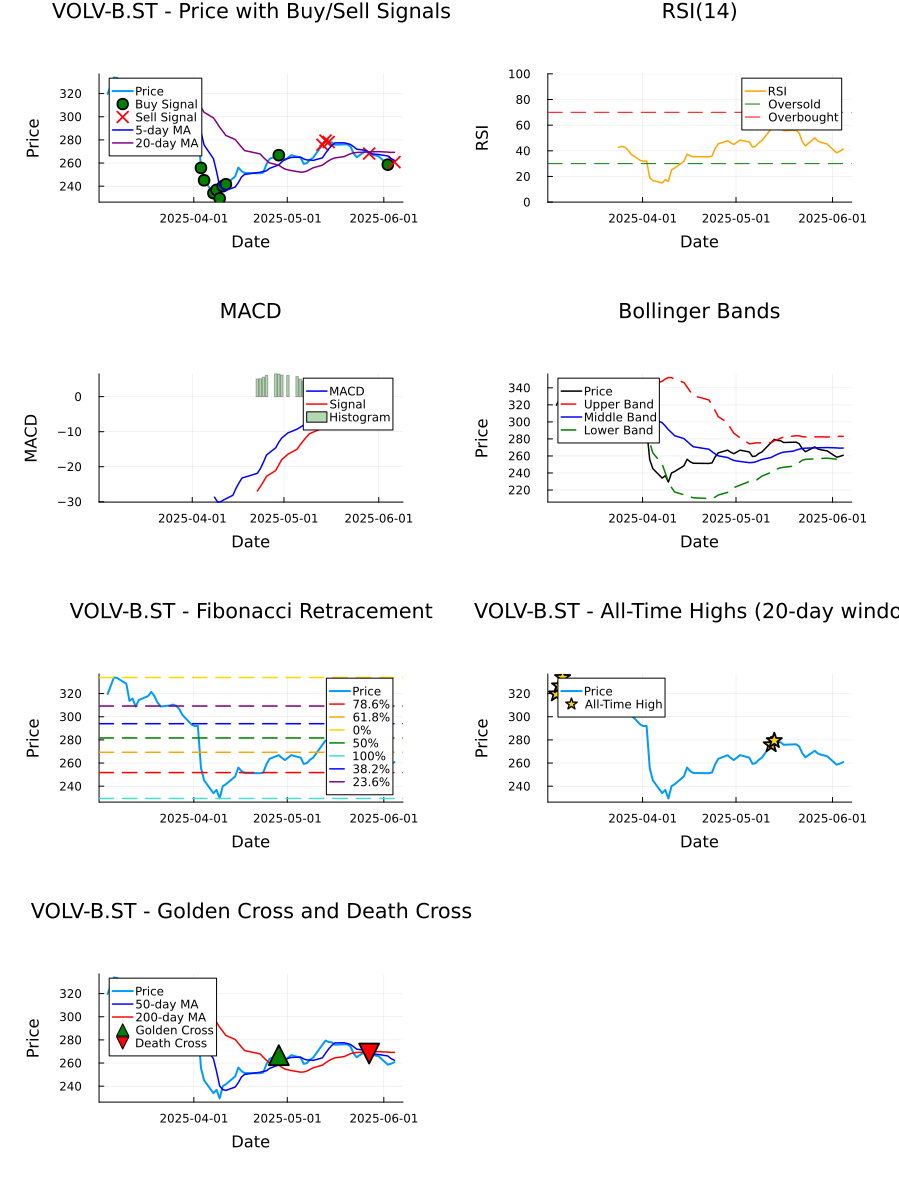
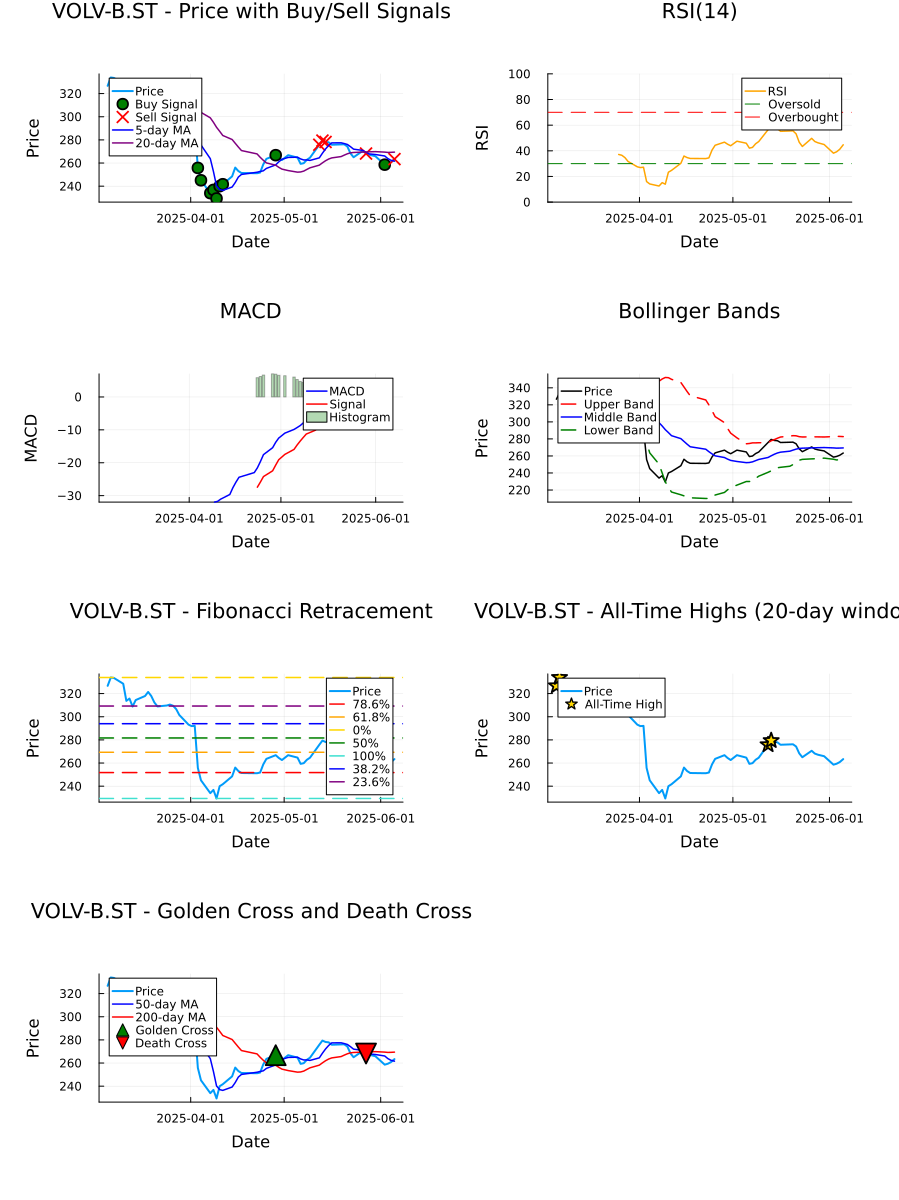
20250605120221 updated VOLV-B.ST analysis in submodule

diff --git a/index.html b/index.html
@@ -122,7 +122,7 @@
 </head>
 <body>
     <h1>Stock Analysis Report: VOLV-B.ST</h1>
-    <p>Report generated on 2025-06-04 12:02:14</p>
+    <p>Report generated on 2025-06-05 12:02:14</p>
     
     <div class="container">
         <h2>Current Strategy: <span class="sell">BEARISH</span></h2>
@@ -130,15 +130,15 @@
         <div class="metrics">
             <div class="metric-card">
                 <div class="metric-title">Current Price</div>
-                <div class="metric-value">260.8</div>
+                <div class="metric-value">263.4</div>
             </div>
             <div class="metric-card">
                 <div class="metric-title">RSI(14)</div>
-                <div class="metric-value">41.44</div>
+                <div class="metric-value">44.68</div>
             </div>
             <div class="metric-card">
                 <div class="metric-title">MACD</div>
-                <div class="metric-value">-2.6696</div>
+                <div class="metric-value">-2.7516</div>
             </div>
             <div class="metric-card">
                 <div class="metric-title">P/E Ratio</div>
@@ -148,11 +148,11 @@
         
         <div class="summary">Stock Analysis Summary for VOLV-B.ST
 Period: 3mo
-Date Range: 2025-03-04T08:00:00 to 2025-06-04T10:01:45
+Date Range: 2025-03-05T08:00:00 to 2025-06-05T10:02:04
 
-Latest Price: 260.8
-RSI(14): 41.44
-MACD: -2.6696, Signal: -1.7548
+Latest Price: 263.4
+RSI(14): 44.68
+MACD: -2.7516, Signal: -2.0961
 
 Recent Signals (Last 30 days):
 Buy Signals: 2
@@ -293,12 +293,12 @@ Strategy: BEARISH
         
         <h3>Sell Signals</h3>
         <div class="sell">
-            2025-06-04T10:01:45<br>2025-05-27T07:00:00<br>2025-05-14T07:00:00<br>2025-05-13T07:00:00<br>2025-05-12T07:00:00
+            2025-06-05T10:02:04<br>2025-05-27T07:00:00<br>2025-05-14T07:00:00<br>2025-05-13T07:00:00<br>2025-05-12T07:00:00
         </div>
     </div>
     
     <div class="footer">
-        <p>Generated with Jaewoo's Financial Analysis Tools | 2025-06-04</p>
+        <p>Generated with Jaewoo's Financial Analysis Tools | 2025-06-05</p>
     </div>
 </body>
 </html>
